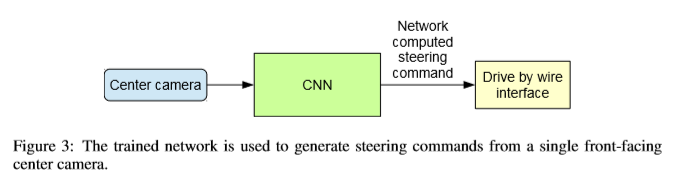
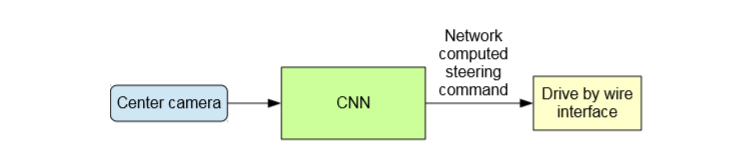
removed subtitles

Changed region(s): [[0.0, 0.1026, 0.9926, 0.9231], [0.0, 0.8205, 0.1551, 0.8718]]

diff --git a/helper.py b/helper.py
@@ -1,0 +1,126 @@
+"""
+    Helper functions.
+"""
+
+import pandas as pd
+import numpy as np
+import cv2
+import os
+
+IMAGE_HEIGHT, IMAGE_WIDTH, IMAGE_CHANNELS = 66, 200, 3
+INPUT_SHAPE = (IMAGE_HEIGHT, IMAGE_WIDTH, IMAGE_CHANNELS)
+
+
+def batch_generator():
+    """
+        Generates batches of samples.
+
+    :return:
+        (x, y): x = images, y = steering angle
+                Generated tuples for the fit_generator().
+    """
+
+
+def load_data(args):
+    """
+        Loads the input data and separates it into the images X
+        and the steering angle y.
+
+    :return:
+        X: [center, left, right]
+           Location of recorded images.
+        y: float
+           Steering angle.
+    """
+    data_df = pd.read_csv(os.path.join(os.getcwd(), args.data_dir, 'driving_log.csv'), names=['center', 'left', 'right',
+                                                                                              'steering', 'throttle',
+                                                                                              'break', 'velocity'])
+    x = data_df[['center', 'left', 'right']].values
+    y = data_df['steering'].values
+    return x, y
+
+
+def select_image(data_dir, left, center, right, steering_angle):
+    """
+        Randomly select an image from left, center or right. Steering
+        angle, corresponding to images which were taken from the
+        off-center, need to be corrected.
+
+    :return:
+        image: array
+               RGB values of the image.
+        steering_angle: rad
+                        Steering angle corresponding to image.
+    """
+    choice = np.random.choice(3)
+    if choice == 0:
+        return load_image(data_dir, left), steering_angle + 0.2
+    elif choice == 1:
+        return load_image(data_dir, center), steering_angle
+    else:
+        return load_image(data_dir, right), steering_angle - 0.2
+
+
+def load_image(data_dir, image_file):
+    """
+        Load RGB image from a file.
+    """
+    return cv2.imread(os.path.join(data_dir, image_file.strip()))
+
+
+def pre_process(image):
+    image = crop(image)
+    image = resize(image)
+    return image
+
+
+def crop(image):
+    """
+        Crop of the sky and parts of the care since
+        it does not add useful information for the
+        training.
+    """
+    return image
+
+
+def resize(image):
+    """
+        Resize the image size to the input format of
+        the network.
+    """
+    return cv2.resize(image, dsize=(IMAGE_WIDTH, IMAGE_HEIGHT))
+
+
+def random_brightness():
+    pass
+
+
+def random_flip(image, steering_angle):
+    """
+        Flips an image as there mainly left turns
+        on the training ground.
+
+    :return:
+        image: array
+               Flipped image.
+        steering_angle: rad
+                        Sign reverted steering angle.
+    """
+    choice = np.random.choice(2)
+    if choice == 0:
+        return cv2.flip(image, 1), -1*steering_angle
+    else:
+        return image, steering_angle
+
+
+def random_rotation():
+    """
+        Apply a random rotation to the input image.
+
+    :return:
+        image: array
+               Rotated version of the input image.
+        steering_angle: rad
+                        Adjusted steering angle.
+    """
+    pass

diff --git a/model.py b/model.py
@@ -1,0 +1,70 @@
+"""
+    Model of the behavioral cloning.
+"""
+
+import argparse
+import helper
+from helper import INPUT_SHAPE
+from sklearn.model_selection import train_test_split
+from keras.models import Sequential
+from keras.layers import Conv2D, Flatten, Dense
+from keras.optimizers import Adam
+
+
+def main():
+    """
+        Load data, build  and train model.
+    """
+
+    # get command line arguments
+    parser = argparse.ArgumentParser(description='Behavioral Cloning Training Program')
+    parser.add_argument('-d', type=str, help='data directory', default='data', dest='data_dir')
+    parser.add_argument('-t', type=float, help='train size fraction', default=0.8, dest='train_size')
+    parser.add_argument('-l', type=float, help='learning rate', dest='learning_rate')
+    parser.add_argument('-s', type=int, help='samples per epoch', dest='samples_per_epoch')
+    parser.add_argument('-e', type=int, help='number of epochs', dest='epochs')
+
+    args = parser.parse_args()
+
+    # load the data
+    x, y = helper.load_data(args)
+    print(x)
+
+    # split it into train and validation set
+    x_train, x_test, y_train, y_test = train_test_split(x, y, train_size=args.train_size, random_state=0)
+
+    # build model
+    model = build_model()
+
+    # train model
+
+    # save weights
+
+
+def build_model():
+    model = Sequential()
+    model.add(Conv2D(filters=5, kernel_size=5, strides=(2, 2), activation='relu', input_shape=INPUT_SHAPE))
+    model.add(Conv2D(filters=5, kernel_size=5, strides=(2, 2), activation='relu'))
+    model.add(Conv2D(filters=5, kernel_size=5, strides=(2, 2), activation='relu'))
+    model.add(Conv2D(filters=5, kernel_size=3, activation='relu'))
+    model.add(Conv2D(filters=5, kernel_size=3, activation='relu'))
+    model.add(Flatten())
+    model.add(Dense(100, activation='relu'))
+    model.add(Dense(50, activation='relu'))
+    model.add(Dense(10, activation='relu'))
+    model.add(Dense(1))
+
+    model.summary()
+
+    return model
+
+
+def train_model(args, model, x_train, x_test, y_train, y_test):
+    model.compile(loss='mean_squared_error', optimizer=Adam(lr=args.learning_rate))
+
+    #model.fit_generator(batch_generator(),
+    #                    args.samples_per_epoch,
+    #                    args.epochs)
+
+if __name__ == '__main__':
+    main()
